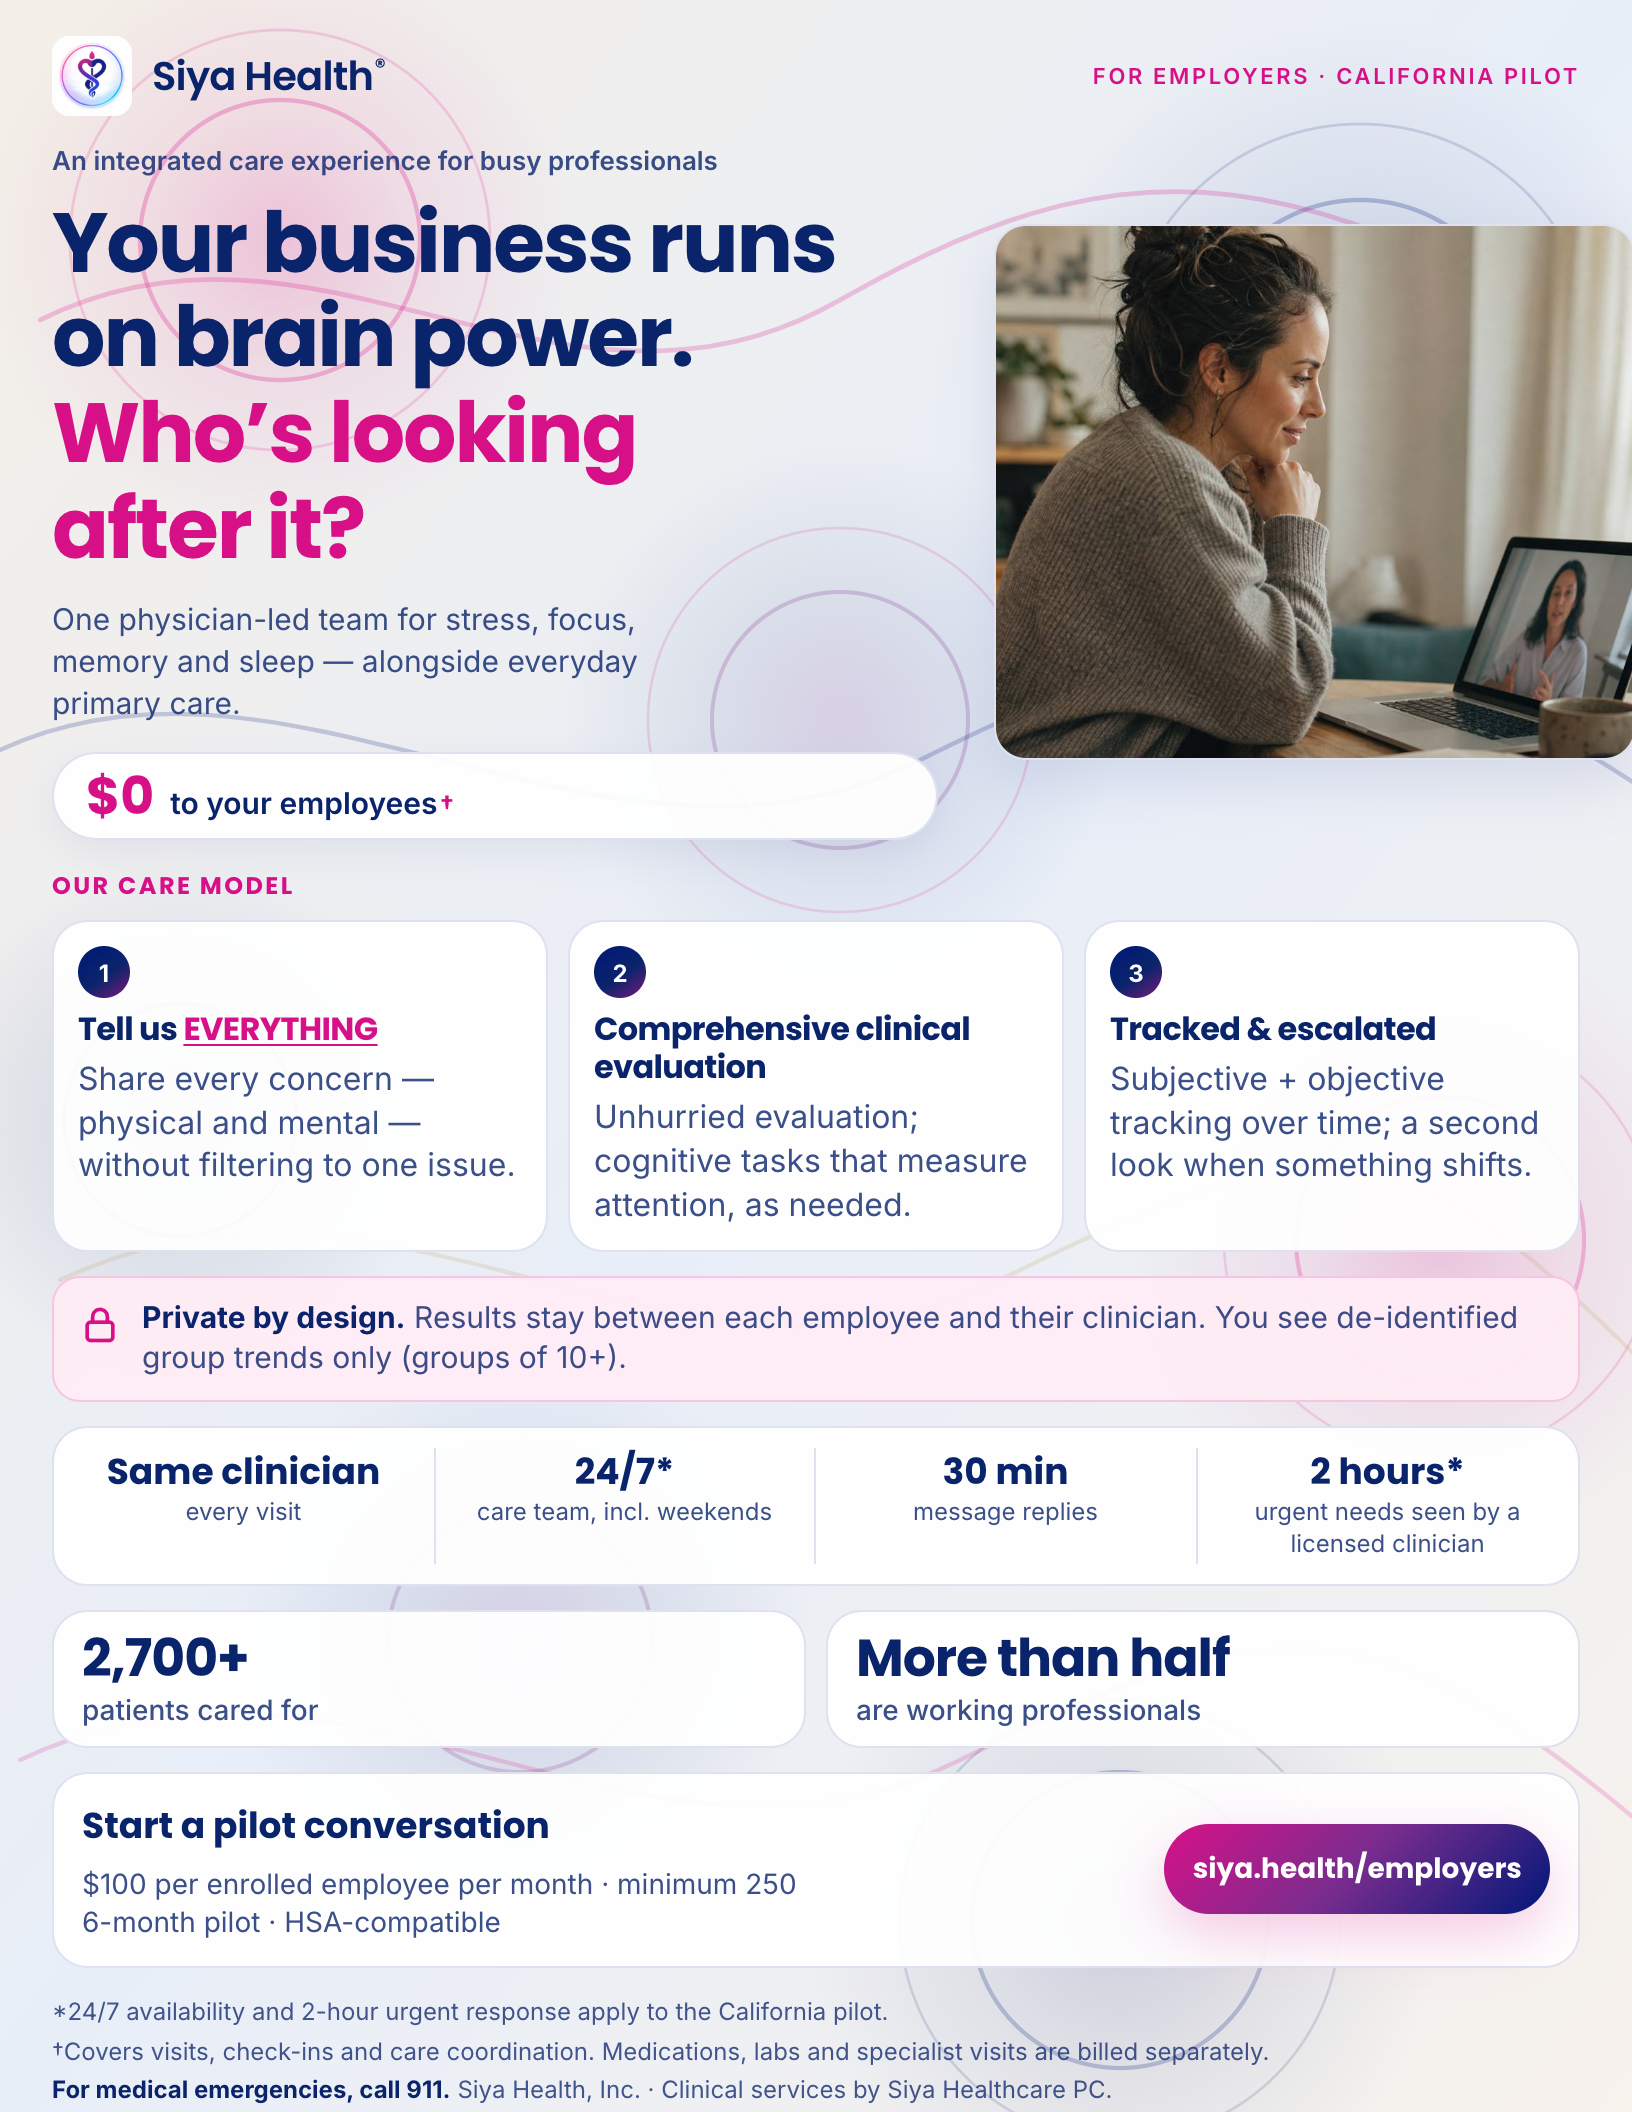
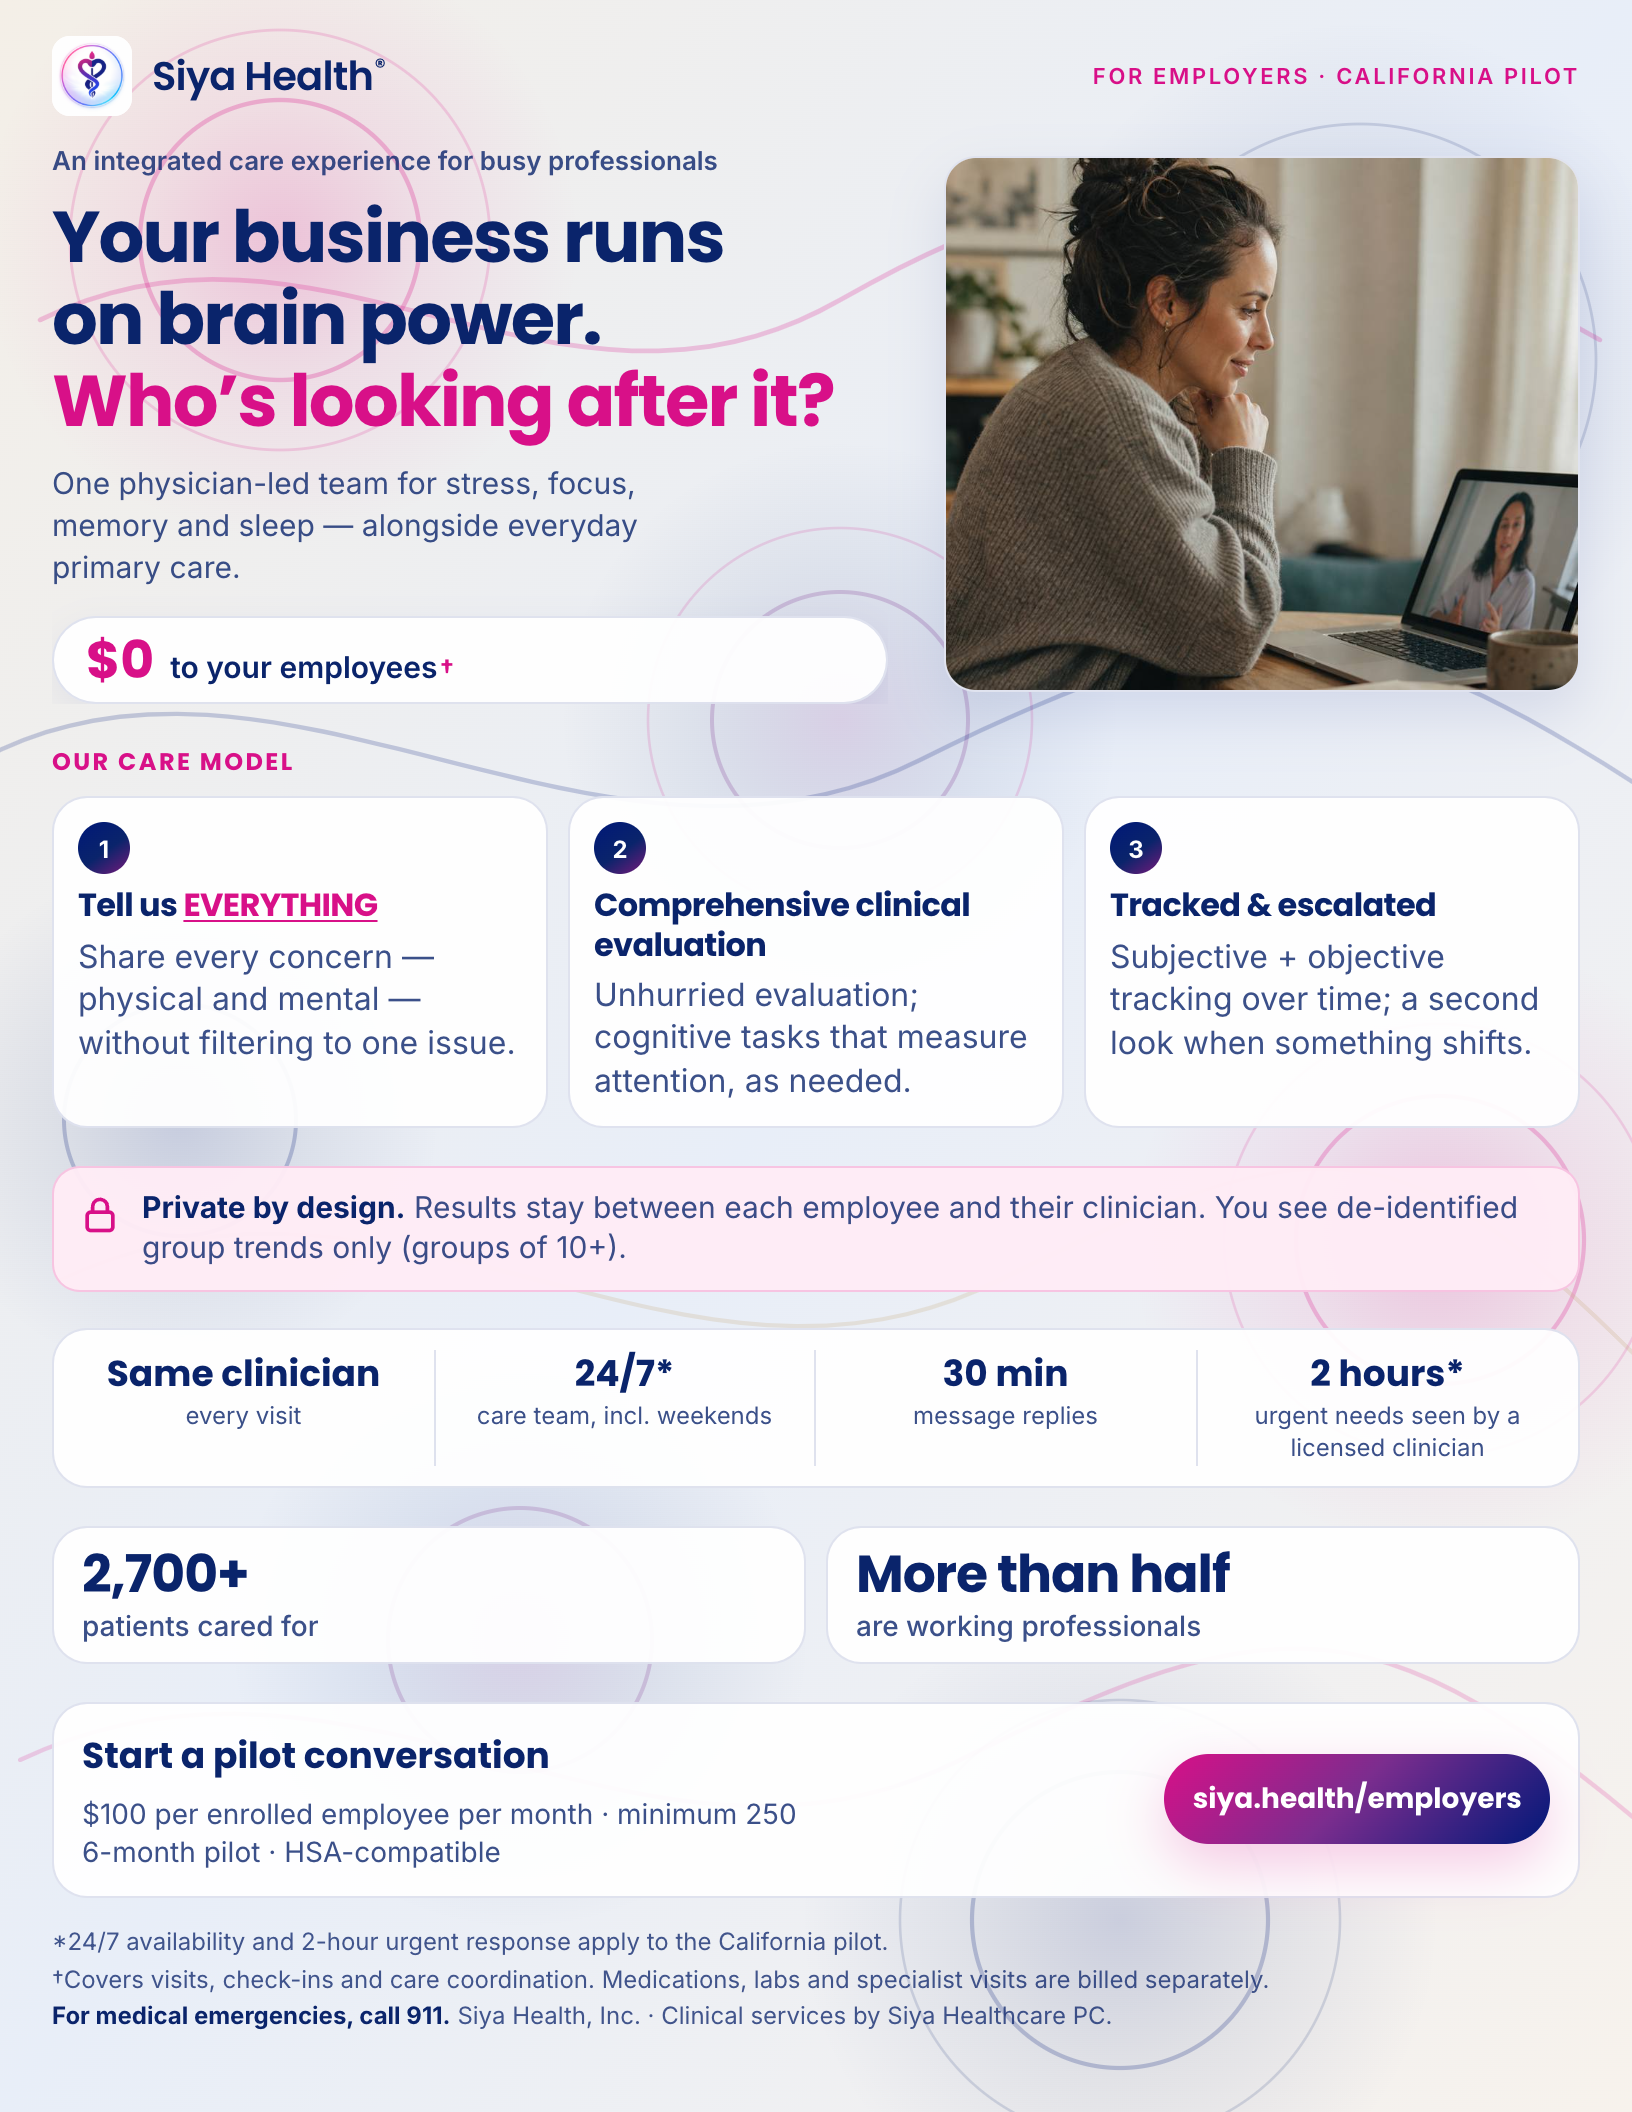
Fix one-pager hero column overflow and redistribute Letter vertical space.

Changed region(s): [[0.0312, 0.0625, 1.0, 1.0], [0.7188, 0.9688, 0.75, 1.0]]

diff --git a/apps/siya-health/employers/one-pager.html b/apps/siya-health/employers/one-pager.html
@@ -157,6 +157,7 @@
         z-index: 1;
         display: flex;
         flex-direction: column;
+        justify-content: space-between;
         height: 100%;
         min-height: 0;
         gap: 0;
@@ -234,12 +235,14 @@
       }
       .hero-grid {
         display: grid;
-        grid-template-columns: 58% 42%;
-        gap: 28px;
-        align-items: stretch;
+        grid-template-columns: minmax(0, 1.25fr) minmax(240px, 0.95fr);
+        column-gap: 28px;
+        align-items: center;
       }
       .hero-copy {
         min-width: 0;
+        max-width: 100%;
+        overflow: hidden;
         display: flex;
         flex-direction: column;
         justify-content: center;
@@ -255,7 +258,7 @@
         margin: 0 0 10px;
         font-family: var(--font-display);
         font-weight: 700;
-        font-size: 42px;
+        font-size: 36px;
         line-height: 1.14;
         letter-spacing: -0.025em;
         color: var(--ink);
@@ -552,13 +555,13 @@
 
       .legal {
         flex: 0 0 auto;
-        padding: 14px 26px 40px;
-        margin-top: auto;
+        padding: 8px 26px 40px;
+        margin-top: 0;
       }
       .legal p {
-        margin: 0 0 3px;
+        margin: 0 0 2px;
         font-size: 12px;
-        line-height: 1.4;
+        line-height: 1.35;
         color: var(--ink-mute);
       }
       .legal p:last-child {
